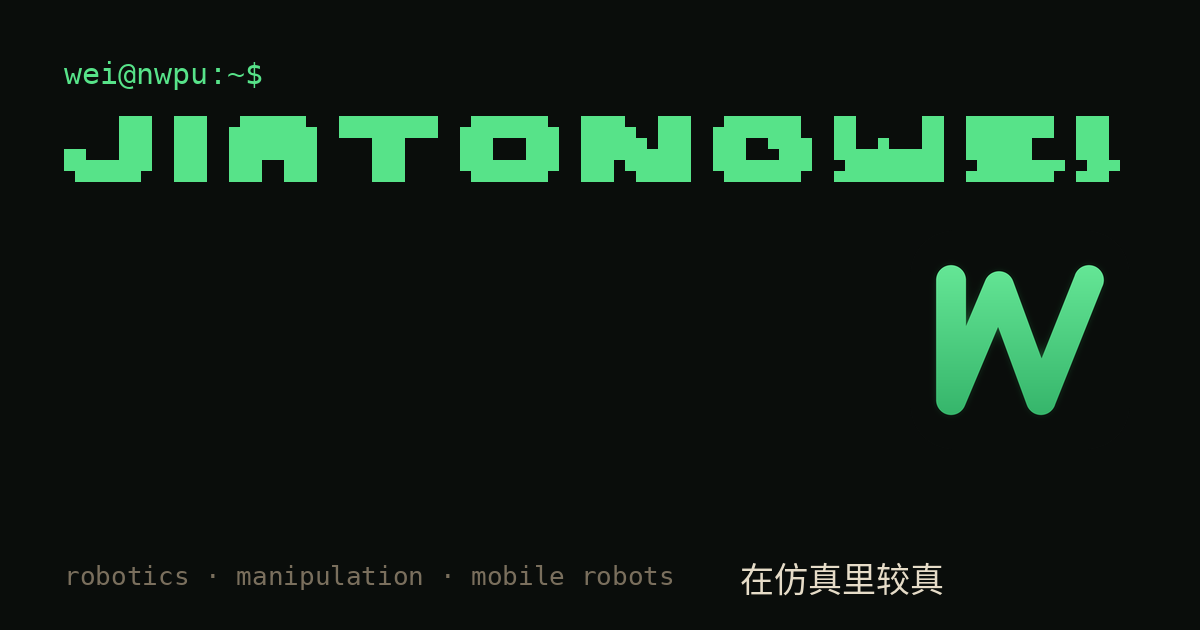
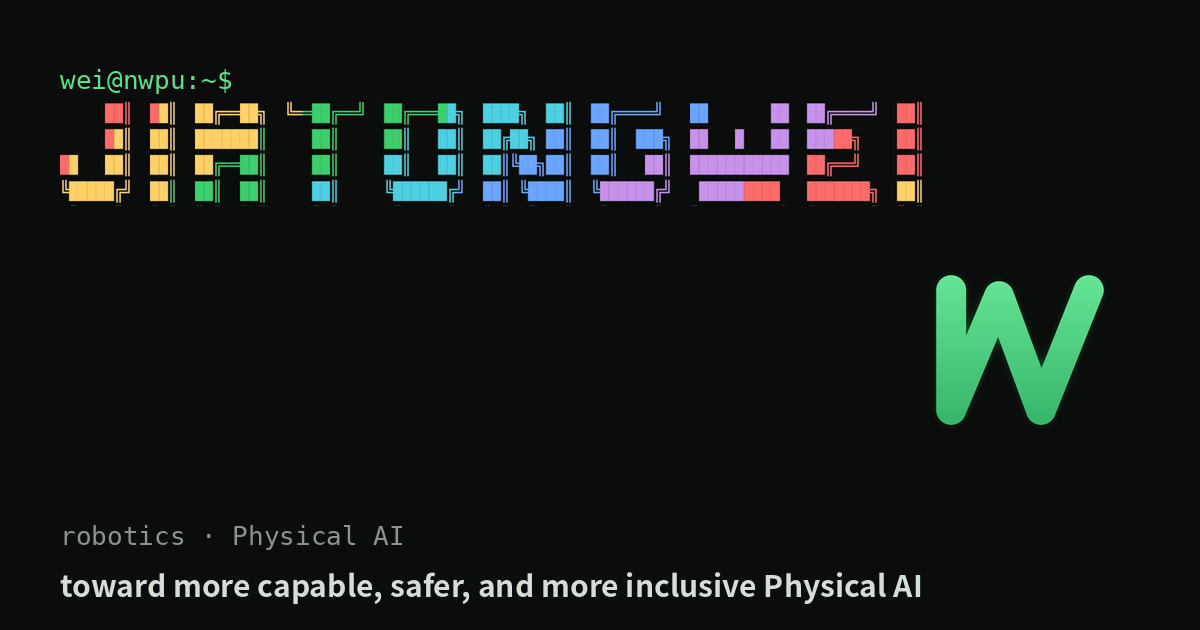
feat: content review batch + joye name unification
User's first self-edit pass: about/awards/news/links rewritten (SmolVLA,
new project framing, real link quotes, corrected award dates/terms),
help/whoami/uname/boot/neofetch copy softened, honest-failure numbers
trimmed. Consistency fixes on top: roman name unified to joye (whoami,
boot, neofetch, og/twitter description, noscript), og description no
longer carries the retired tagline, People I respect, full-width comma,
Visiting Student. og-card.png regenerated from a live art capture with
the Physical AI vision tagline.

diff --git a/src/apps/builtins.ts b/src/apps/builtins.ts
@@ -14,17 +14,17 @@ export const help: Command = {
   run: () => {
     const rows: Array<[string, string]> = [];
     rows.push(['', '文档即命令：cat about ≡ about；试试 Tab 补全和 ↑↓ 历史']);
-    rows.push(['ls / tree', '看看这里有什么']);
-    rows.push(['cat <doc>', '读一篇文章（about / awards / news / links / wiki/…）']);
-    rows.push(['wiki', '研究记录目录（Human / Human in the loop 标识都在）']);
+    rows.push(['ls / tree', '快来看看我的个人站里都有什么']);
+    rows.push(['cat <doc>', '读一读我的手作文章（about / awards / news / links / wiki/…）']);
+    rows.push(['wiki', '研究札记']);
     rows.push(['open <target>', `打开图片/文件/链接：${Object.keys(OPEN_TARGETS).join(' · ')}`]);
     rows.push(['wc [-l] <doc>', '数行数，支持管道 cat about | wc -l']);
     rows.push(['grep <词> [<doc>]', '找关键词，命中高亮，支持管道']);
-    rows.push(['neofetch', '我是谁，我的机器是什么']);
+    rows.push(['neofetch', '我是谁']);
     rows.push(['rostopic', 'ROS 惯急了的可以试这个']);
     rows.push(['whoami / joints / boot', '彩蛋三件套']);
-    rows.push(['pet', '桌宠优米（UMI）：会遛弯会歪头，点它汪']);
-    rows.push(['fetch / walk umi', '叼红方块 / 撒绳全屏散步']);
+    rows.push(['pet', '优米（UMI）：爱遛弯并且喜欢被摸狗头']);
+    rows.push(['fetch / walk umi', '优米会叼走方块 / 撒欢（再敲一次 walk umi 召回）']);
     rows.push(['theme / clear / history / echo', '老四样']);
     const w = Math.max(...rows.map(([a]) => strWidth(a)));
     return [
@@ -32,7 +32,7 @@ export const help: Command = {
       '',
       ...rows.map(([a, b]) => (a ? `  ${padEnd(a, w)}  ${C.dim}${b}${R}` : `  ${C.dim}${b}${R}`)),
       '',
-      `${C.dim}本站灵感抄自 jiangyy.github.io —— 站在 jyy 的终端里。${R}`,
+      `${C.dim}本站借鉴了 jiangyy.github.io —— 感谢我那素未谋面的绿导师。${R}`,
       '',
     ].join('\n');
   },
@@ -79,7 +79,7 @@ function wikiLs(): string {
     const cert = d.cert === 'hitl' ? `${C.yellow}[HITL]${R}` : d.cert === 'human' ? `${C.green}[H]${R}` : '     ';
     return `  ${padEnd(cert, 10)}${C.cyan}${padEnd(d.name.replace('wiki/', ''), 24)}${R}${C.dim}${d.summary}${R}`;
   });
-  return [`${C.dim}wiki/ — Human in the loop = 用了生成式AI并由我 review；[H] = 纯手工${R}`, ...lines, `${C.dim}全文带图表版：${R}${link(`${C.cyan}jiatong-wei.github.io/wiki${R}`, 'https://jiatong-wei.github.io/wiki/')}${C.dim}（open wiki）${R}`, ''].join('\n');
+  return [`${C.dim}wiki/ — Human in the loop = 使用GenAI+人工review；[H] = 匠心手作${R}`, ...lines, `${C.dim}全文带图表版：${R}${link(`${C.cyan}jiatong-wei.github.io/wiki${R}`, 'https://jiatong-wei.github.io/wiki/')}${C.dim}（open wiki）${R}`, ''].join('\n');
 }
 
 export const wiki: Command = {
@@ -227,9 +227,8 @@ export const whoami: Command = {
   summary: '我是谁',
   run: () =>
     [
-      `${C.accent}${bold('魏佳桐')}${R} ${C.dim}(Leo Wei)${R} — 西北工业大学 · 水声工程 · 2023–2027`,
+      `${C.accent}${bold('魏佳桐')}${R} ${C.dim}(joye)${R} — 西北工业大学 · 水声工程 · 2023–2027`,
       '',
-      `${C.dim}把实车上调过的控制环，和仿真里拆过的抓取任务，接到同一条研究路上。${R}`,
       `${C.dim}toward more capable, safer, and more inclusive Physical AI${R}`,
       '',
       `  mail   ${link(`${C.cyan}joyetong58@gmail.com${R}`, 'mailto:joyetong58@gmail.com')}`,
@@ -255,7 +254,7 @@ export const date: Command = {
 export const uname: Command = {
   name: 'uname',
   summary: '系统信息',
-  run: () => 'RoboStation 6.0 nwpu-xian franka/gnu ROS2 Humble — 在仿真里较真',
+  run: () => 'RoboStation 1.0 nwpu franka/gnu ROS2 Humble',
 };
 
 // --- first screen (jyy-style profile) ---
@@ -394,12 +393,10 @@ export function profileScreen(cols: number): string[] {
 }
 
 export const BOOT_LINES: Array<{ kind: 'ok' | 'warn'; text: string; delay?: number }> = [
-  { kind: 'ok', text: 'mcu: STM32 angle-loop @ 200Hz — 麦轮底盘听话了（wiki/gc-logistics）' },
-  { kind: 'ok', text: 'sim: Isaac Sim 6.0 · Franka Panda loaded — reach 0.855 m' },
-  { kind: 'ok', text: 'policy: DAgger ×4 · best approach 0.094 m' },
+  { kind: 'ok', text: 'mcu: STM32 angle-loop @ 200Hz — 角度环加载成功（wiki/gc-logistics）' },
   { kind: 'warn', text: 'grasp success: 0/5 — 只报真数字（wiki/nine-generations）' },
   { kind: 'ok', text: 'net: joyetong58@gmail.com · github.com/Jiatong-Wei' },
-  { kind: 'ok', text: 'operator: 魏佳桐 (Jiatong Wei) online — 在仿真里较真' },
+  { kind: 'ok', text: 'operator: 魏佳桐 (joye) online' },
 ];
 
 export const boot: Command = {

diff --git a/index.html b/index.html
@@ -4,16 +4,16 @@
   <meta charset="utf-8" />
   <meta name="viewport" content="width=device-width, initial-scale=1, viewport-fit=cover" />
   <title>~wei@nwpu</title>
-  <meta name="description" content="魏佳桐（Jiatong Wei）· 西北工业大学水声工程本科 · robotics / manipulation / mobile robots。一个假装成终端的个人主页。" />
+  <meta name="description" content="魏佳桐（joye）· 西北工业大学本科 · toward more capable, safer, and more inclusive Physical AI。一个假装成终端的个人主页。" />
   <meta name="theme-color" content="#0a0d0b" />
   <meta property="og:title" content="~wei@nwpu" />
-  <meta property="og:description" content="魏佳桐（Jiatong Wei）· robotics · 在仿真里较真" />
+  <meta property="og:description" content="魏佳桐（joye）· robotics — toward more capable, safer, and more inclusive Physical AI" />
   <meta property="og:type" content="website" />
   <meta property="og:url" content="https://jiatong-wei.github.io/" />
   <meta property="og:image" content="https://jiatong-wei.github.io/images/og-card.png" />
   <meta name="twitter:card" content="summary_large_image" />
   <meta name="twitter:title" content="~wei@nwpu" />
-  <meta name="twitter:description" content="魏佳桐（Jiatong Wei）· robotics · 在仿真里较真" />
+  <meta name="twitter:description" content="魏佳桐（joye）· robotics — toward more capable, safer, and more inclusive Physical AI" />
   <meta name="twitter:image" content="https://jiatong-wei.github.io/images/og-card.png" />
   <link rel="icon" href="./images/favicon.ico" />
   <link rel="apple-touch-icon" href="./images/apple-touch-icon.png" />
@@ -211,7 +211,7 @@
   </div>
   <noscript>
     <div>
-      <h1>魏佳桐（Jiatong Wei）</h1>
+      <h1>魏佳桐（joye）</h1>
       <p>西北工业大学水声工程本科（2023–2027），西安。方向：致力于推动构建更强大、更安全、更普惠的 Physical AI（Physical AI — more capable, safer, and more inclusive）。</p>
       <p>本站是一个假装成终端的交互应用，需要启用 JavaScript 才能体验。核心信息：</p>
       <ul>

diff --git a/src/apps/fun.ts b/src/apps/fun.ts
@@ -24,16 +24,14 @@ const ART = [
 ];
 
 const INFO: Array<[string, string]> = [
-  ['', `${C.accent}${bold('魏佳桐')}${R} ${C.dim}(Leo Wei)${R}`],
-  ['os', 'RoboStation 6.0 — 在仿真里较真'],
-  ['host', '西安 · NWPU 水声工程 2023–2027'],
+  ['', `${C.accent}${bold('魏佳桐')}${R} ${C.dim}(joye)${R}`],
+  ['os', 'RoboStation 1.0'],
+  ['host', '西安 · NWPU 2023–2027'],
   ['research', 'Physical AI — capable · safe · inclusive'],
-  ['stack', 'STM32 · ROS2 · LeRobot · PyTorch'],
+  ['stack', 'STM32 · SolidWorks · LeRobot · 持续学习中...'],
   ['sim', 'Isaac Sim 6.0 · Franka Panda'],
-  ['best', '0.094 m approach (4× DAgger)'],
-  ['grasp', '0/5 — 只报真数字'],
   ['mail', 'joyetong58@gmail.com'],
-  ['shell', '本终端，灵感欠 jyy 一次饭'],
+  ['shell', '本终端灵感源自绿导师，他已经原谅我了'],
 ];
 
 export const neofetch: Command = {

diff --git a/content/about.md b/content/about.md
@@ -1,24 +1,20 @@
 <!-- title: 魏佳桐是谁 -->
 <!-- summary: 西北工业大学水声工程本科，正走在 robotics 的路上 -->
 
-我是**魏佳桐**，[西北工业大学](https://www.nwpu.edu.cn/)水声工程本科生，在西安。
+我是**魏佳桐**，本科就读于[西北工业大学](https://www.nwpu.edu.cn/)
 
-之后想走的路是 robotics：把实车上调过的控制环，和仿真里拆过的抓取任务，接到同一条研究路上。现在一边在真实赛场上做电控——STM32、树莓派、麦克纳姆轮小车；一边在 Isaac Sim 里给机械臂建可复算的模仿学习管线。关心的是 manipulation、mobile robots，以及能被证伪的学习与控制。
+我是一名还在新手村打怪升级的Robotics研究者，最大的心愿是让机器人进工厂打螺丝。我对实现AGI充满热忱，目前的研究兴趣包括机器人运动控制和loco-manipulation
 
-如需联系，请发邮件到 [joyetong58@gmail.com](mailto:joyetong58@gmail.com)。
+如有任何合作意向，请发邮件到 [joyetong58@gmail.com](mailto:joyetong58@gmail.com)，目前正在积极寻找 onsite RA / Visiting Student。
 
-# 📝 项目
+# 📝 项目（部分）
 
-- *2025.10* 智能物流搬运：电控侧的车、环与发车（`wiki/gc-logistics`） — 麦克纳姆轮底盘、STM32 角度环、树莓派 4B、ESP32 无线发车。陕西赛区一等奖，全省第三进决赛。
+- *2025.04* 智能物流搬运机器人：电控负责人，项目最终获得陕西赛区一等奖。
+- *2025.07* 回转体型多功能矢量航行器：唯一完成人，项目最终获得西北赛区一等奖。
 
-- *2026.08* 技术报告：在仿真里解剖一个抓取（`wiki/isaac-report`） — 完整抓取 0 次；末端逼近 0.54 m → 0.094 m。（`open report` 看 28 页 PDF）
-- *2026.08* DAgger 四轮迭代：0.54 m → 0.094 m（`wiki/dagger-four-rounds`）
-- *2026.08* 九代受控实验：证伪纯模仿（`wiki/nine-generations`）
-- *2026.08* LeRobot × PushT 交叉验证（`wiki/pusht-crossval`）
-- *2026.08* 三个 AI 代理的 git 协作协议（`wiki/git-agent-protocol`）
-
-以上项目文稿均标注 Human in the loop（使用了生成式 AI，并由我 review）。
+- *2026.01* [西北工业大学展机](https://3d.explorerglobal.cn/collection/web/5vxjmwx8)：独立完成了素材航拍和点云重建，播放量进入相关平台**TOP100**
+- *2026.08* SmolVLA：正在努力尝试fine-tuning，coming soon~
 
 # 📖 教育
 
-- *2023.09 — 2027.06（在读）*，西北工业大学，本科，水声工程，西安。
+- *2023.09 — 2027.06（在读）*，西北工业大学，本科

diff --git a/content/awards.md b/content/awards.md
@@ -13,8 +13,7 @@
 - *2025.12* 第十八届全国三维数字化创新设计大赛 · 全国一等奖
 - *2025.12* 软件著作权 · 软著登字第16982367号
 - *2025.10* 第十八届全国三维数字化创新设计大赛 · 陕西赛区 · 特等奖
-- *2025.10* 中国大学生工程实践与创新能力大赛 · 陕西赛区 · 工程场景数字化 · 一等奖
-- *2025.10* 中国大学生工程实践与创新能力大赛 · 陕西赛区 · 智能物流搬运 · 一等奖（全省第三进决赛） ·（`wiki/gc-logistics`）
+- *2025.10* 软件著作权 · 软著登字第16757372号
 
 **2024.9 — 2025.9**
 - *2025.08* 第十三届未来设计师 · 全国高校数字艺术设计大赛 · 全国三等奖
@@ -22,7 +21,9 @@
 - *2025.08* 第十三届未来设计师 · 全国高校数字艺术设计大赛 · 陕西赛区 · 一等奖
 - *2025.07* 第十四届海洋航行器设计与制作大赛 · 西北赛区 · 一等奖
 - *2025.07* 第二十七届中国机器人及人工智能大赛 · 陕西赛区 · 三等奖
+- *2025.04* 中国大学生工程实践与创新能力大赛 · 陕西赛区 · 工程场景数字化 · 一等奖
+- *2025.04* 中国大学生工程实践与创新能力大赛 · 陕西赛区 · 智能物流搬运 · 一等奖 ·（`wiki/gc-logistics`）
 
 **2023.9 — 2024.9**
-- *2024.05* 省级大学生创新训练项目 · 良好结题
+- *2024.05* 省级大学生创新训练计划 · 良好结题
 - *2024.05* 美国大学生数学建模竞赛（ICM）· Honorable Mention

diff --git a/content/news.md b/content/news.md
@@ -3,8 +3,8 @@
 
 # 📰 News
 
-- *2026.08* 🤖 Isaac 抓取技术报告封版：五日弧，完整抓取 0 次，DAgger 把末端距离 0.54 m → 0.094 m（`wiki/isaac-report`）
+- *2026.08* 🤖 学习SmolVLA微调中~ 爱 · 信 · 等
 - *2026.07* 🥈 第二十八届中国机器人及人工智能大赛 · 全国总决赛二等奖
 - *2026.07* 🌊 第十五届海洋航行器设计与制作大赛 · 西北赛区一等奖
 - *2026.05* 📐 美赛 MCM · Meritorious Winner
-- *2026.04* 🫧 高斯泼溅作品观看量进相关平台 Top100（`open splat`）
+- *2026.01* 🫧 高斯泼溅[作品](https://3d.explorerglobal.cn/collection/web/5vxjmwx8)观看量进入相关平台 Top100

diff --git a/content/links.md b/content/links.md
@@ -3,11 +3,11 @@
 
 # 🔗 Link
 
-我在读的人。名言栏先占位，之后逐个补上真话。
+People I respect
 
 - **何泰然** — [tairanhe.com](https://tairanhe.com/)
-  > 名言占位，待补。
+  > WhynotTV
 - **翁家羿** — [trinkle23897.github.io](https://trinkle23897.github.io/)
-  > 名言占位，待补。
+  > n+e's blog
 - **蒋炎岩** — [jiangyy.github.io](https://jiangyy.github.io/)
-  > 名言占位，待补。（本站的终端造型，就是抄他的作业）
+  > Everything is a state machine
